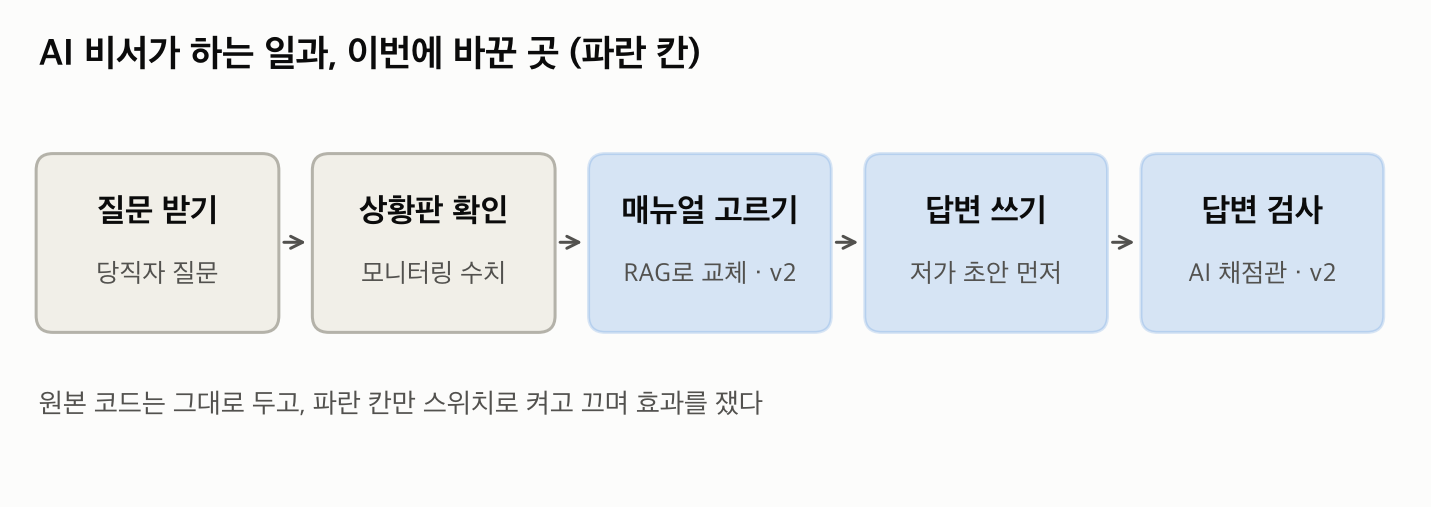
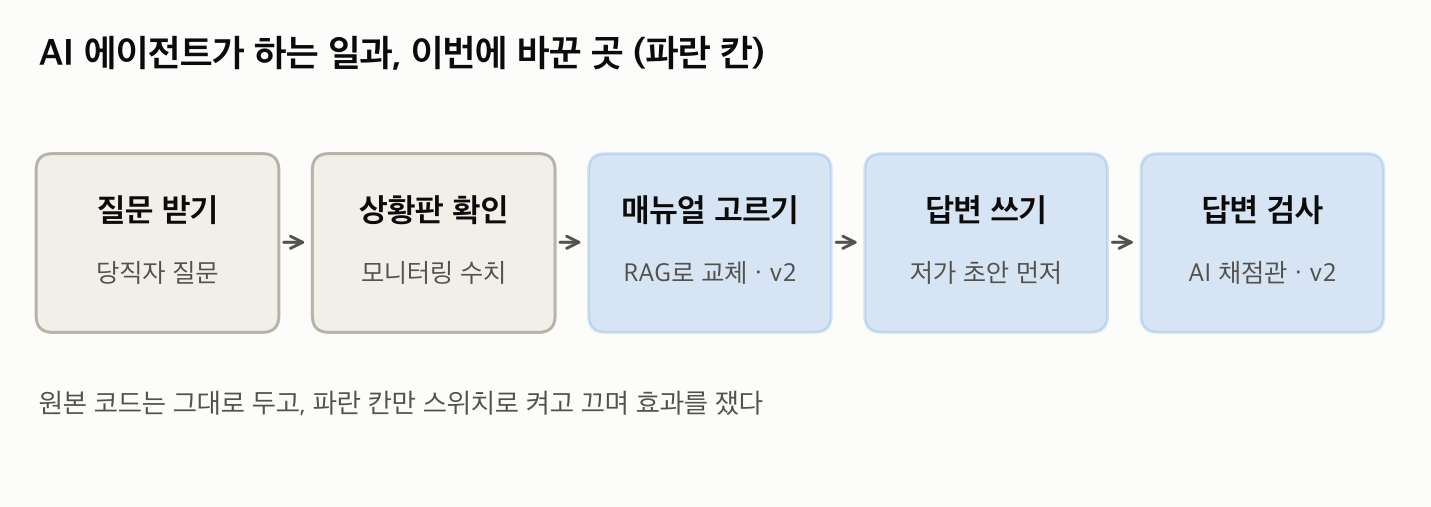
docs: README·그림·용어집의 'AI 비서'를 'AI 에이전트'로 통일
README 8곳, fig1 제목, 용어집 1줄. 비유 표의 왼쪽 칸은 'AI 도우미'로 둠.
fix: make_figs 의 시연 그림(fig10) 근거를 최신 demo 파일이 아닌 고정 실행 기록(demo_20261021_114804.json)으로 고정 — 시연 리허설 기록이 README 그림을 바꾸던 문제
테스트: make_figs 재실행 시 fig1 만 변경, check_claims 0건

Changed region(s): [[0.0615, 0.0592, 0.5535, 0.1479]]

diff --git a/docs/발표_용어집.html b/docs/발표_용어집.html
@@ -13,7 +13,7 @@ td:first-child{font-weight:700;white-space:nowrap}td:nth-child(2){color:var(--re
 <table>
 <tr><th>말</th><th>읽는 법</th><th>뜻 (쉽게)</th></tr>
 <tr><td>장애</td><td>장애</td><td>서비스가 멈추거나 느려지는 사고</td></tr>
-<tr><td>AI 비서 / 에이전트 (Agent)</td><td>에이전트</td><td>질문을 받아 스스로 조회·판단·답까지 하는 AI 프로그램</td></tr>
+<tr><td>AI 에이전트 (Agent)</td><td>에이전트</td><td>질문을 받아 스스로 조회·판단·답까지 하는 AI 프로그램</td></tr>
 <tr><td>당직자</td><td>당직자</td><td>밤에 장애에 대응하는 담당 개발자</td></tr>
 <tr><td>DB 프라이머리 (DB Primary)</td><td>디비 프라이머리</td><td>데이터를 저장하는 주(메인) 데이터베이스 서버</td></tr>
 <tr><td>매뉴얼 / 런북 (Runbook)</td><td>런북</td><td>장애 유형별 대응 절차서. 이 프로젝트엔 6개</td></tr>

diff --git a/scripts/make_figs.py b/scripts/make_figs.py
@@ -84,7 +84,7 @@ for i, (h, s, c) in enumerate(steps):
     if i < 4:
         ax.annotate("", xy=(x + 1.95, 1.78), xytext=(x + 1.72, 1.78),
                     arrowprops=dict(arrowstyle="->", color=INK2, lw=1.2))
-ax.text(0.15, 3.05, "AI 비서가 하는 일과, 이번에 바꾼 곳 (파란 칸)", fontsize=15, color=INK, fontweight="bold")
+ax.text(0.15, 3.05, "AI 에이전트가 하는 일과, 이번에 바꾼 곳 (파란 칸)", fontsize=15, color=INK, fontweight="bold")
 ax.text(0.15, 0.55, "원본 코드는 그대로 두고, 파란 칸만 스위치로 켜고 끄며 효과를 쟀다", fontsize=11, color=INK2)
 fig.savefig(OUT / "fig1_flow.png", dpi=180, bbox_inches="tight")
 plt.close(fig)
@@ -227,7 +227,8 @@ plt.close(fig)
 # 그리는 코드는 scripts/demo_side_by_side.py 의 render_png 하나뿐이다 (--render 로도 같은 그림).
 sys.path.insert(0, str(ROOT / "scripts"))
 from demo_side_by_side import render_png  # noqa: E402
-demo_path = sorted((R / "raw").glob("demo_*.json"))[-1]
+# 가장 최근 파일이 아니라 README 그림의 근거로 고정한 실행 기록을 쓴다 (이후 시연 리허설 기록이 그림을 바꾸지 않도록)
+demo_path = R / "raw" / "demo_20261021_114804.json"
 render_png(json.loads(demo_path.read_text()), OUT / "fig10_demo.png", demo_path.relative_to(ROOT).as_posix())
 
 print("wrote", sorted(p.name for p in OUT.glob("*.png")))

diff --git a/README.md b/README.md
@@ -3,9 +3,9 @@
 **SKALA 4기 광주 2반 · G062 · 장병헌**
 AI Agent Mini-Project 선택과제 1 (Base AI Agent 개선) · 2026-10-22
 
-> 장애 대응 AI 비서를 고친 뒤 "좋아졌다"고 말하는 대신, 개선을 하나씩 켜고 끄며 **무엇이 실제로 효과였는지 통계로 가려냈다.** 채점한 AI가 너무 후하게 주는지도 따로 쟀다.
+> 장애 대응 AI 에이전트를 고친 뒤 "좋아졌다"고 말하는 대신, 개선을 하나씩 켜고 끄며 **무엇이 실제로 효과였는지 통계로 가려냈다.** 채점한 AI가 너무 후하게 주는지도 따로 쟀다.
 
-**한눈에 보기: 교수님이 준 원본 AI 비서 → 고친 AI 비서**
+**한눈에 보기: 교수님이 준 원본 AI 에이전트 → 고친 AI 에이전트**
 
 | 무엇을 쟀나 | 원본 | 개선 후 | 한 줄 해석 |
 |---|:---:|:---:|---|
@@ -29,22 +29,22 @@ AI Agent Mini-Project 선택과제 1 (Base AI Agent 개선) · 2026-10-22
 
 ### 1.1 이게 뭔가요
 
-회사 서버에 장애가 나면 새벽에도 당직자가 대응해야 한다. 교수님이 준 **AI 비서(에이전트)** 는 당직자 질문을 받아 서버 상황판(모니터링)을 보고, 장애 유형별 **대처 매뉴얼(런북)** 6개 중 하나를 골라 답을 써 준다.
+회사 서버에 장애가 나면 새벽에도 당직자가 대응해야 한다. 교수님이 준 **AI 에이전트**(질문을 받으면 스스로 조회·판단해 답까지 쓰는 AI)는 당직자 질문을 받아 서버 상황판(모니터링)을 보고, 장애 유형별 **대처 매뉴얼(런북)** 6개 중 하나를 골라 답을 써 준다.
 
 | 식당으로 치면 | 이 프로젝트에서 |
 |---|---|
 | 주방 사고 (불, 냉장고 고장) | 장애 (DB 다운, CPU 과부하 등) |
-| 새벽 당직 직원 | 당직 엔지니어 (**이 비서를 쓰는 사람**) |
-| 옆에서 도와주는 AI 비서 | 에이전트 |
+| 새벽 당직 직원 | 당직 엔지니어 (**이 에이전트를 쓰는 사람**) |
+| 옆에서 도와주는 AI 도우미 | 에이전트 |
 | 사고 유형별 대처 매뉴얼 6권 | 런북 6개 |
-| 비서의 답안을 채점하는 AI 조교 | 평가 Judge (gpt-4o) |
+| 에이전트의 답안을 채점하는 AI 조교 | 평가 Judge (gpt-4o) |
 | 조교가 제대로 채점하는지 보는 검수자 | 독립 평가자 (Claude). 사람 표본 채점은 예정 |
 
 <p align="center"><img src="docs/figures/gpt_webtoon.png" width="520" alt="4컷 웹툰: 새벽 당직, 스위치 켜기, 맞는 매뉴얼, 채점관 검사"></p>
 
 <sub>4컷 요약 — ① 원본은 DB 다운 질문에 응답 지연 매뉴얼로 답한다 ② 고친 부분을 하나씩 켜고 효과를 잰다 ③ 질문 뜻으로 찾자 맞는 매뉴얼이 나온다 ④ 채점하는 AI도 검사한다. ChatGPT로 그림.</sub>
 
-![AI 비서가 하는 일과 바꾼 곳](docs/figures/fig1_flow.png)
+![AI 에이전트가 하는 일과 바꾼 곳](docs/figures/fig1_flow.png)
 
 ### 1.2 실태 현황 — 시장·연구·현업 도구 (2026-10-22 조사)
 
@@ -200,7 +200,7 @@ flowchart TD
 
 - **RAG** — 맞는 매뉴얼 누락 -46%p (유의)
 - **v2 보완** — 엉뚱한 매뉴얼 혼입 -24%p (유의)
-- **비서 안의 LLM Judge** — 품질 향상은 확인되지 않았고, 시간(질의당 +1.8~2.7초)과 비용만 늘었다
+- **에이전트 안의 LLM Judge** — 품질 향상은 확인되지 않았고, 시간(질의당 +1.8~2.7초)과 비용만 늘었다
 
 **④ 더 싸게** — 캐스케이드가 핵심이다. 캐스케이드만 켠 구성에서 장애 1건 비용이 원본보다 73% 줄었다. 캐스케이드에 v2 보완·런타임 개선을 더해 재작성이 사라진 최종 구성에서는 84% 줄었다 ($0.00343 → $0.00057). 장애 1건 비용 = 반복마다 전체 질의 비용 ÷ 장애로 처리된 질의 수.
 

diff --git a/docs/발표_용어집.md b/docs/발표_용어집.md
@@ -7,7 +7,7 @@
 | 말 | 읽는 법 | 뜻 (쉽게) |
 |---|---|---|
 | 장애 | 장애 | 서비스가 멈추거나 느려지는 사고 |
-| AI 비서 / 에이전트 (Agent) | 에이전트 | 질문을 받아 스스로 조회·판단·답까지 하는 AI 프로그램 |
+| AI 에이전트 (Agent) | 에이전트 | 질문을 받아 스스로 조회·판단·답까지 하는 AI 프로그램 |
 | 당직자 | 당직자 | 밤에 장애에 대응하는 담당 개발자 |
 | DB 프라이머리 (DB Primary) | 디비 프라이머리 | 데이터를 저장하는 주(메인) 데이터베이스 서버 |
 | 매뉴얼 / 런북 (Runbook) | 런북 | 장애 유형별 대응 절차서. 이 프로젝트엔 6개 |
